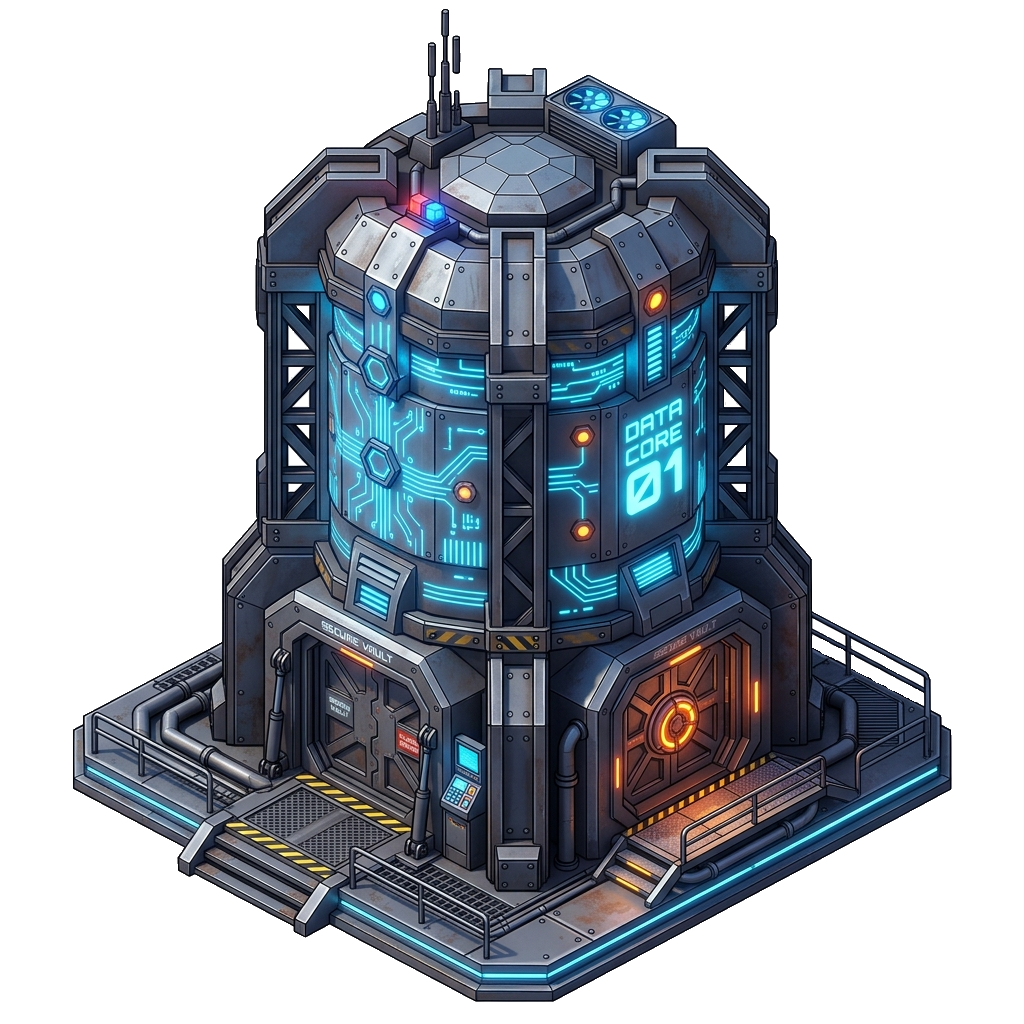
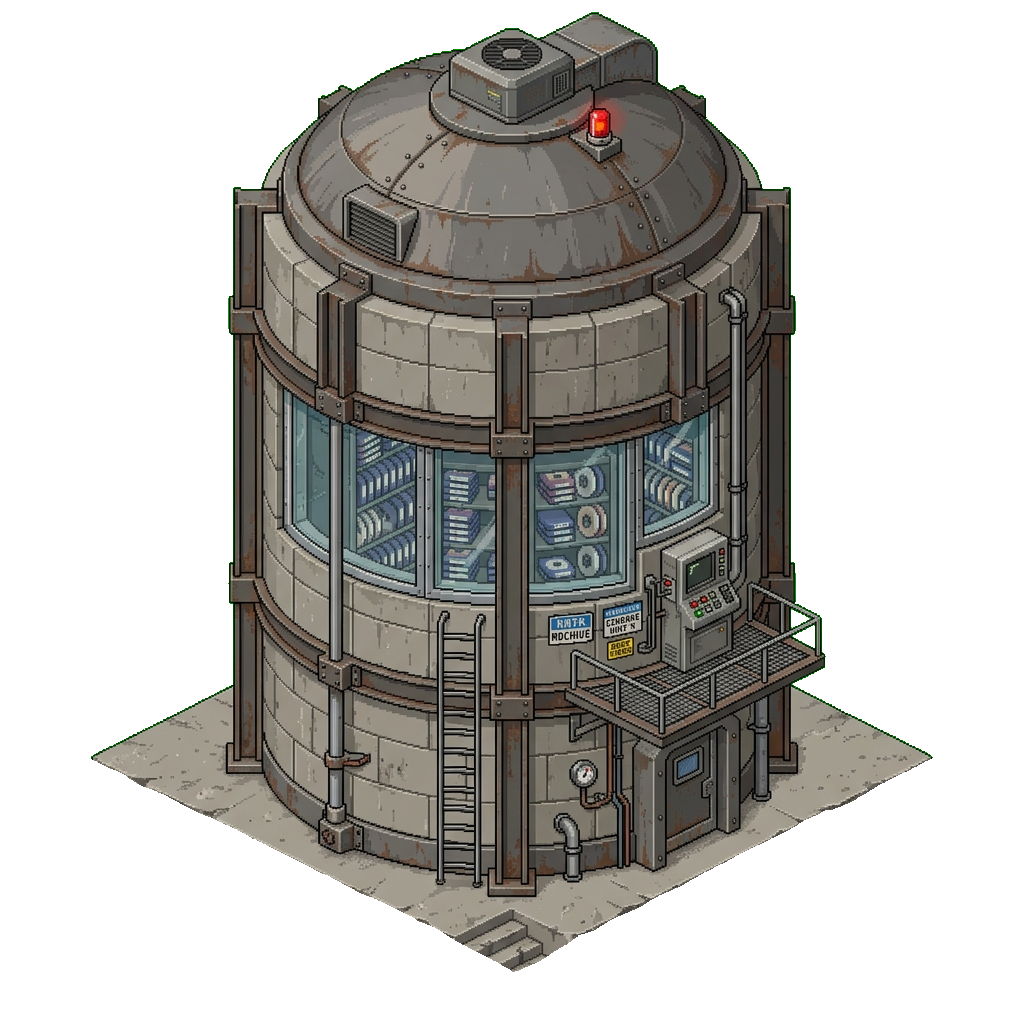
Added A new Asset Sorting Facility(JSON parser)

diff --git a/src/lib/queue/worker.ts b/src/lib/queue/worker.ts
@@ -467,6 +467,47 @@ const executeNode = async (job: Job) => {
         newContext[nodeId] = newContext.lastOutput;
       }
     }
+  } else if (currentNode.type === 'jsonParser') {
+    const rawInput = newContext.lastOutput;
+    if (!rawInput) {
+      newContext.lastOutput = `Error: Sorting Facility received empty input.`;
+      newContext[nodeId] = newContext.lastOutput;
+    } else {
+      try {
+        console.log(`[Queue] Sorting Facility processing input...`);
+        let extracted = null;
+        
+        // Find the first occurrence of {...} or [...]
+        const objectMatch = rawInput.match(/\{[\s\S]*\}/);
+        const arrayMatch = rawInput.match(/\[[\s\S]*\]/);
+        
+        if (objectMatch && arrayMatch) {
+          // If both exist, take whichever comes first
+          extracted = objectMatch.index < arrayMatch.index ? objectMatch[0] : arrayMatch[0];
+        } else if (objectMatch) {
+          extracted = objectMatch[0];
+        } else if (arrayMatch) {
+          extracted = arrayMatch[0];
+        }
+
+        if (!extracted) {
+          throw new Error('No JSON structure found in the input text.');
+        }
+
+        // Validate by parsing
+        const parsed = JSON.parse(extracted);
+        
+        // Re-stringify with pretty formatting to guarantee clean output
+        const cleanJson = JSON.stringify(parsed, null, 2);
+        
+        newContext.lastOutput = cleanJson;
+        newContext[nodeId] = cleanJson;
+      } catch (err: any) {
+        console.error(`[Queue] Sorting Facility Error:`, err.message);
+        newContext.lastOutput = `Error (Invalid JSON): ${err.message}\n\nRaw Input was:\n${rawInput}`;
+        newContext[nodeId] = newContext.lastOutput;
+      }
+    }
   } else if (currentNode.type === 'output') {
     console.log(`[Queue] Final Output Reached: ${newContext.lastOutput}`);
     await broadcastEvent(workflowId, 'NODE_FINISHED', { nodeId, type: currentNode.type, output: newContext.lastOutput });

diff --git a/src/components/canvas/nodes/SortingFacilityNode.tsx b/src/components/canvas/nodes/SortingFacilityNode.tsx
@@ -1,0 +1,26 @@
+import { Handle, Position } from '@xyflow/react';
+import DiamondHighlight from './DiamondHighlight';
+import NodeControls from './NodeControls';
+
+export default function SortingFacilityNode({ id, data, selected }: { id: string, data: any, selected?: boolean }) {
+  const isExecuting = data?.isLoading;
+
+  return (
+    <div className="relative group" style={{ width: 192, height: 128 }}>
+      <NodeControls id={id} data={data} showPin label="Sorting Facility" />
+      {selected && <DiamondHighlight cols={3} rows={4} offsetX={0} offsetY={15} />}
+
+      <Handle type="target" position={Position.Left} className="w-2 h-2 bg-green-500 border-none rounded-full z-10" style={{ left: 48, top: 100 }} />
+
+      <div className="absolute pointer-events-none" style={{ left: 0, bottom: -50, width: '100%', height: 260, transformOrigin: 'bottom center' }}>
+        <img src="/assets/sorting_facility.png" alt="Sorting Facility" className="w-full h-full object-contain" />
+
+        {isExecuting && (
+          <div className="absolute top-[40%] left-[50%] -translate-x-1/2 w-20 h-20 bg-green-400 opacity-40 rounded-full blur-xl animate-pulse pointer-events-none z-10"></div>
+        )}
+      </div>
+
+      <Handle type="source" position={Position.Right} className="w-2 h-2 bg-green-500 border-none rounded-full z-10" style={{ right: 48, top: 100 }} />
+    </div>
+  );
+}

diff --git a/src/components/canvas/nodes/DiamondHighlight.tsx b/src/components/canvas/nodes/DiamondHighlight.tsx
@@ -12,12 +12,16 @@ export default function DiamondHighlight({
   rows = 3,
   color = 'rgba(200, 255, 0, 0.25)',
   strokeColor = 'rgba(200, 255, 0, 1)',
+  offsetX = 0,
+  offsetY = 0,
   style = {},
 }: {
   cols?: number;
   rows?: number;
   color?: string;
   strokeColor?: string;
+  offsetX?: number;
+  offsetY?: number;
   style?: React.CSSProperties;
 }) {
   // Each diamond tile is 64px wide × 32px tall in flow-space
@@ -63,8 +67,13 @@ export default function DiamondHighlight({
 
   return (
     <svg
-      className="absolute inset-0 pointer-events-none z-0"
-      style={{ filter: 'drop-shadow(0px 0px 8px rgba(200, 255, 0, 0.8))', ...style }}
+      className="absolute pointer-events-none z-0"
+      style={{ 
+        left: offsetX,
+        top: offsetY,
+        filter: 'drop-shadow(0px 0px 8px rgba(200, 255, 0, 0.8))', 
+        ...style 
+      }}
       width={nodeW}
       height={nodeH}
       viewBox={`0 0 ${nodeW} ${nodeH}`}

diff --git a/src/components/canvas/SidePanel.tsx b/src/components/canvas/SidePanel.tsx
@@ -78,6 +78,7 @@ const toolAssets: Record<string, string> = {
   webScraper: 'print_shop.png',
   documentParser: 'library.png',
   dbSilo: 'db_silo.png',
+  jsonParser: 'sorting_facility.png',
 };
 
 export default function SidePanel({
@@ -653,6 +654,15 @@ export default function SidePanel({
                       </div>
                     )}
 
+                    {selectedNode.type === 'jsonParser' && (
+                      <div className="space-y-4">
+                        <div className="p-3 bg-[#1a1a1a] border-[3px] border-[#2d2d2d] rounded-md text-sm text-gray-300">
+                          <p className="mb-2">The Sorting Facility acts as a structural validation checkpoint.</p>
+                          <p>It automatically extracts the first valid JSON block from the incoming string, verifies it using standard JSON parsing, and outputs the clean object downstream. If the incoming text contains no valid JSON, the workflow halts with an error.</p>
+                        </div>
+                      </div>
+                    )}
+
                     {selectedNode.type === 'customWorkshop' && (
                       <div className="space-y-4">
                         <div className="bg-[#1a1a1a] p-4 border-[3px] border-[#2d2d2d] text-center text-[#4af626] font-mono text-xs uppercase">
@@ -841,7 +851,7 @@ export default function SidePanel({
                     )}
 
                     {/* Standalone Execute Button */}
-                    {['geminiFactory', 'chatgptFactory', 'claudeFactory', 'httpRequest', 'watchtower', 'customWorkshop', 'webScraper', 'documentParser', 'dbSilo'].includes(selectedNode.type) && (
+                    {['geminiFactory', 'chatgptFactory', 'claudeFactory', 'httpRequest', 'watchtower', 'customWorkshop', 'webScraper', 'documentParser', 'dbSilo', 'jsonParser'].includes(selectedNode.type) && (
                       <div className="pt-4 border-t-2 border-[#1a1a1a] mt-4">
                         <button
                           onClick={executeNodeStandalone}

diff --git a/src/components/canvas/nodes/DBSiloNode.tsx b/src/components/canvas/nodes/DBSiloNode.tsx
@@ -6,14 +6,14 @@ export default function DBSiloNode({ id, data, selected }: { id: string, data: a
   const isExecuting = data?.isLoading;
 
   return (
-    <div className="relative group" style={{ width: 192, height: 90 }}>
+    <div className="relative group" style={{ width: 192, height: 82 }}>
       <NodeControls id={id} data={data} showPin label="DB Silo" />
       {selected && <DiamondHighlight cols={3} rows={3} />}
 
       <Handle type="target" position={Position.Left} className="w-2 h-2 bg-cyan-500 border-none rounded-full z-10" style={{ left: 48, top: 64 }} />
 
       <div className="absolute pointer-events-none" style={{ left: 0, bottom: -40, width: '100%', height: 260, transformOrigin: 'bottom center' }}>
-        <img src="/assets/db_silo.png" alt="DB Silo" className="w-full h-full object-contain" />
+        <img src="/assets/db_silo.png" alt="DB Silo" className="w-full h-full object-contain" style={{ transform: 'scale(1.2)' }} />
 
         {isExecuting && (
           <div className="absolute top-[40%] left-[50%] -translate-x-1/2 w-20 h-20 bg-cyan-400 opacity-40 rounded-full blur-xl animate-pulse pointer-events-none z-10"></div>

diff --git a/src/components/canvas/CityCanvas.tsx b/src/components/canvas/CityCanvas.tsx
@@ -36,6 +36,7 @@ import CustomWorkshopNode from './nodes/CustomWorkshopNode';
 import PrintShopNode from './nodes/PrintShopNode';
 import LibraryNode from './nodes/LibraryNode';
 import DBSiloNode from './nodes/DBSiloNode';
+import SortingFacilityNode from './nodes/SortingFacilityNode';
 
 import RoadEdge from './RoadEdge';
 import PipeEdge from './PipeEdge';
@@ -57,6 +58,7 @@ const nodeTypes = {
   webScraper: PrintShopNode,
   documentParser: LibraryNode,
   dbSilo: DBSiloNode,
+  jsonParser: SortingFacilityNode,
 };
 
 const edgeTypes = {

diff --git a/src/components/canvas/Toolbox.tsx b/src/components/canvas/Toolbox.tsx
@@ -25,6 +25,7 @@ const toolItems: ToolItem[] = [
   { type: 'webScraper',     name: 'Print Shop',       icon: '[P]', description: 'Web Scraper',                longDescription: 'Scrape the raw HTML from any given URL, strip out the code tags, and extract the clean, readable text.', color: '#3b82f6', asset: 'print_shop.png' },
   { type: 'documentParser', name: 'Library',          icon: '[L]', description: 'Document Parser',            longDescription: 'Extract raw text from PDF, CSV, and TXT files. Upload documents directly into your workflow for AI processing.', color: '#ca8a04', asset: 'library.png' },
   { type: 'dbSilo',         name: 'DB Silo',          icon: '[D]', description: 'Postgres Connector',         longDescription: 'Connect to remote Postgres databases and run raw SQL queries directly in the pipeline.', color: '#06b6d4', asset: 'db_silo.png' },
+  { type: 'jsonParser',     name: 'Sorting Facility', icon: '[S]', description: 'JSON Validator',             longDescription: 'Extract and validate structured JSON from raw LLM text outputs. Blocks invalid formatting.', color: '#22c55e', asset: 'sorting_facility.png' },
 ];
 
 export default function Toolbox({ onOpenSecretManager }: { onOpenSecretManager?: () => void }) {